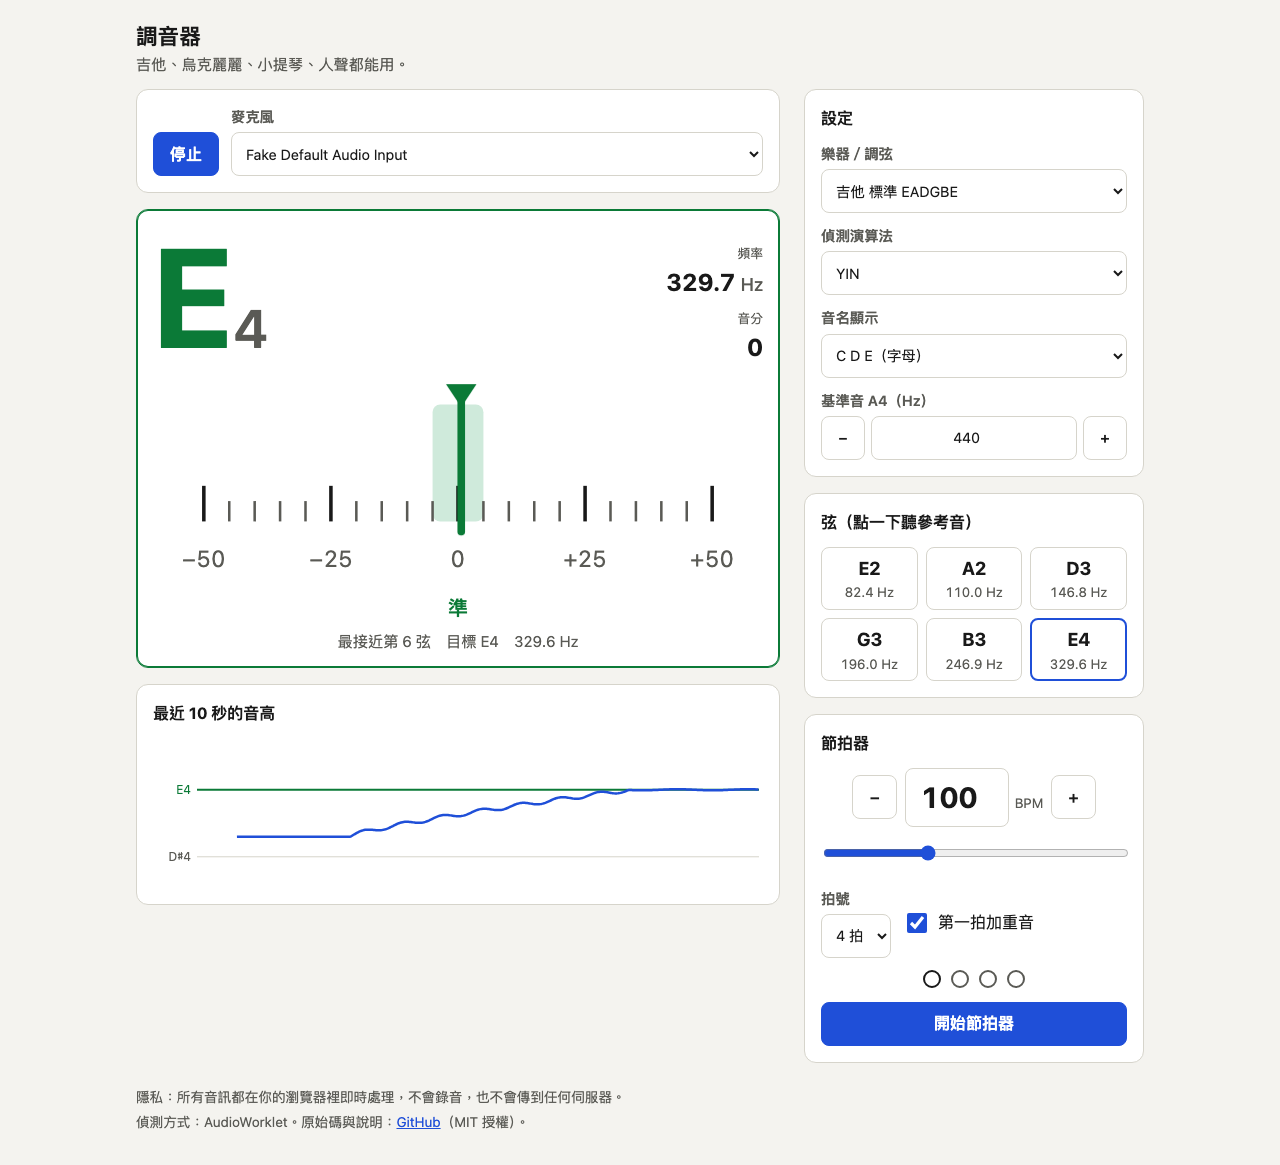
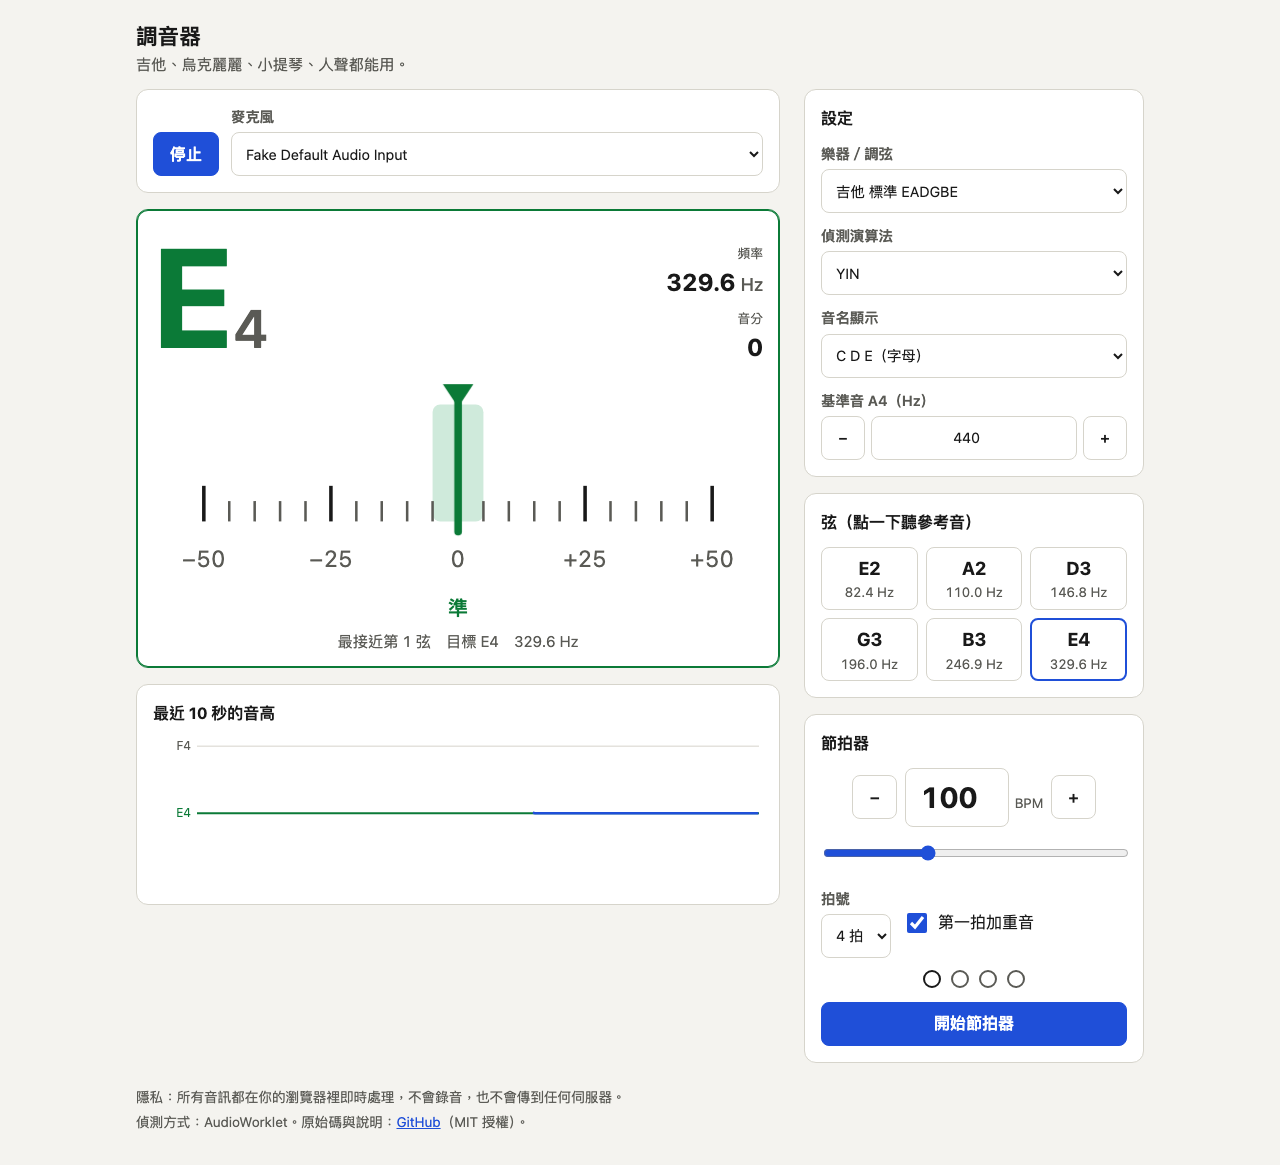
fix: number strings by convention (highest string is 1)
The target line said E4 was string 6 on guitar; standard numbering makes
the highest-pitched string number 1. Also retake the README screenshot.

diff --git a/src/app.js b/src/app.js
@@ -128,7 +128,7 @@ function showPitch(freq) {
   const tname = formatNote(targetMidi, state.style, flats);
   $('target').hidden = false;
   $('target').textContent = i.strings.length
-    ? `最接近第 ${activeString + 1} 弦　目標 ${tname}　${target.toFixed(1)} Hz`
+    ? `最接近第 ${i.strings.length - activeString} 弦　目標 ${tname}　${target.toFixed(1)} Hz`
     : `最接近 ${tname}　${target.toFixed(1)} Hz`;
   markStrings();
   const inTune = status === 'in-tune';
@@ -161,7 +161,7 @@ function buildStrings() {
     b.type = 'button';
     b.className = 'string-btn';
     b.dataset.index = idx;
-    b.setAttribute('aria-label', `播放第 ${idx + 1} 弦 ${name} 的參考音`);
+    b.setAttribute('aria-label', `播放第 ${i.strings.length - idx} 弦 ${name} 的參考音`);
     b.innerHTML = `<b></b><small></small>`;
     b.querySelector('b').textContent = name;
     b.querySelector('small').textContent = `${freqFromMidi(midi, state.a4).toFixed(1)} Hz`;

diff --git a/src/instruments.js b/src/instruments.js
@@ -1,4 +1,5 @@
-// 樂器與調弦：以 MIDI 音高表示每一條弦（由低音弦到高音弦，烏克麗麗依實際彈奏順序）
+// 樂器與調弦：以 MIDI 音高表示每一條弦（由低音弦到高音弦，烏克麗麗依實際彈奏順序）。
+// 顯示弦號時依慣例：最後一個（最高音）是第 1 弦，所以弦號 = strings.length - index。
 
 import { freqFromMidi, centsBetween } from './notes.js';
 
